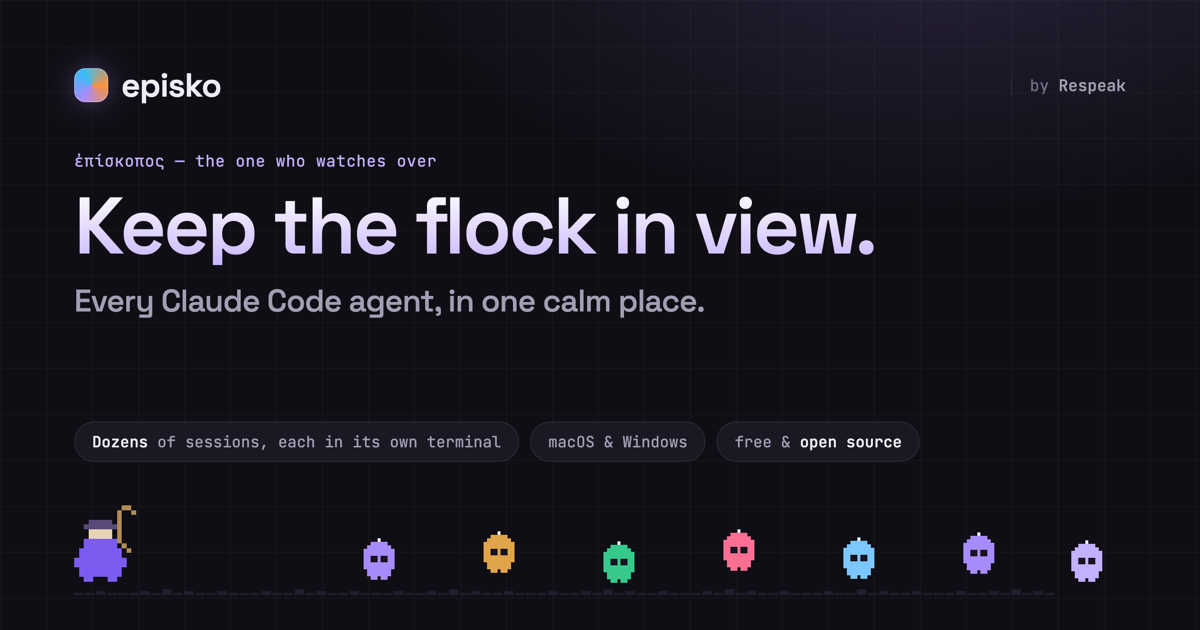
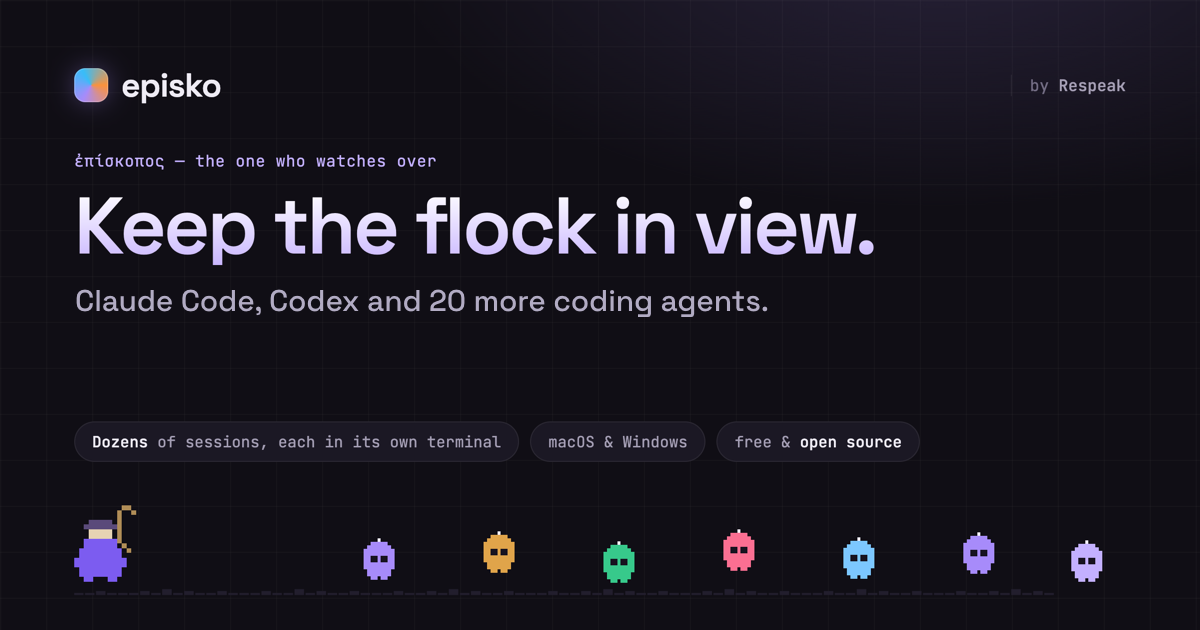
site: tags, social card and llms.txt cover every agent
The visible page already covered Codex and the other CLIs; the title, meta
tags, JSON-LD, social card and llms.txt still said Claude Code only.

Claude Code stays first in the title as the search term. The integrated
claims name Claude Code and Codex, and the other 20 CLIs are described as
plain terminals. The duplicate <title> is gone.

Changed region(s): [[0.0617, 0.4524, 0.6475, 0.5127]]

diff --git a/site/index.html b/site/index.html
@@ -3,10 +3,9 @@
 <head>
 <meta charset="utf-8" />
 <script>try{var t=localStorage.getItem('episko-theme');if(t==='light'||t==='dark')document.documentElement.setAttribute('data-theme',t)}catch(e){}</script>
-<title>episko — Claude Code session manager for macOS &amp; Windows</title>
+<title>episko: run Claude Code, Codex and 20 more coding agents at once</title>
 <meta name="viewport" content="width=device-width, initial-scale=1, viewport-fit=cover" />
-<title>episko — Claude Code session manager for macOS &amp; Windows</title>
-<meta name="description" content="Run dozens of Claude Code sessions at once — each in its own terminal, with live status, context, cost and permission prompts in one app. Free, open source." />
+<meta name="description" content="Run Claude Code, Codex and 20 more coding agents at once. Claude Code and Codex get live status and in-app permission prompts. Free and open source." />
 <link rel="canonical" href="https://episko.dev/" />
 <meta name="author" content="Respeak GmbH" />
 <meta name="theme-color" content="#e5e9e2" media="(prefers-color-scheme: light)" />
@@ -17,15 +16,15 @@
 <meta property="og:type" content="website" />
 <meta property="og:site_name" content="episko" />
 <meta property="og:url" content="https://episko.dev/" />
-<meta property="og:title" content="episko — Claude Code session manager for macOS &amp; Windows" />
-<meta property="og:description" content="Run dozens of Claude Code sessions at once. Every agent gets its own terminal, with live status, context, cost and permission prompts in one native app." />
+<meta property="og:title" content="episko: run Claude Code, Codex and 20 more coding agents at once" />
+<meta property="og:description" content="Run Claude Code, Codex and 20 more coding agents at once, each in its own terminal. Claude Code and Codex get live status, context use, cost and in-app permission prompts. The others run as plain terminals." />
 <meta property="og:image" content="https://episko.dev/og.png" />
 <meta property="og:image:width" content="1200" />
 <meta property="og:image:height" content="630" />
-<meta property="og:image:alt" content="episko — a pixel-art shepherd minding a flock of little Claude agents, above the episko session cockpit." />
+<meta property="og:image:alt" content="episko: a pixel-art shepherd minding a flock of little coding agents, under the line &quot;Keep the flock in view.&quot;" />
 <meta name="twitter:card" content="summary_large_image" />
-<meta name="twitter:title" content="episko — Claude Code session manager for macOS &amp; Windows" />
-<meta name="twitter:description" content="Run dozens of Claude Code sessions at once. Every agent gets its own terminal, with live status, context, cost and permission prompts in one native app." />
+<meta name="twitter:title" content="episko: run Claude Code, Codex and 20 more coding agents at once" />
+<meta name="twitter:description" content="Run Claude Code, Codex and 20 more coding agents at once, each in its own terminal. Claude Code and Codex get live status, context use, cost and in-app permission prompts. The others run as plain terminals." />
 <meta name="twitter:image" content="https://episko.dev/og.png" />
 
 <link rel="icon" href="/favicon.svg" type="image/svg+xml" />
@@ -41,7 +40,6 @@
       "@type": "SoftwareApplication",
       "@id": "https://episko.dev/#app",
       "name": "episko",
-      "alternateName": "episko for Claude Code",
       "applicationCategory": "DeveloperApplication",
       "applicationSubCategory": "AI coding agent session manager",
       "operatingSystem": "macOS, Windows 10, Windows 11",
@@ -50,18 +48,18 @@
       "softwareHelp": "https://github.com/respeak-io/episko",
       "license": "https://opensource.org/licenses/MIT",
       "isAccessibleForFree": true,
-      "description": "episko is a native desktop app that runs and supervises many Claude Code sessions at once. Each session gets its own PTY terminal — embedded, or in Ghostty, Terminal.app or iTerm2 — and streams live telemetry back: phase, model, context use, cost, the tool it is running, and permission requests you can answer without leaving the app. It also tracks 5-hour and weekly usage limits and forecasts when you will hit them.",
+      "description": "episko is a desktop app for running Claude Code, Codex and 20 other coding agent CLIs at once, each in its own PTY terminal. Claude Code and Codex stream live state back: phase, model, context use, cost, the tool running, and permission requests you can answer without leaving the app. The other CLIs run as plain terminals with no status reporting. On macOS, a Claude Code session can also run in Ghostty, Terminal.app or iTerm2. episko also tracks usage limits and forecasts when you will hit them.",
       "featureList": [
-        "Run many Claude Code sessions in parallel, each in its own terminal",
+        "Run Claude Code, Codex and 20 other coding agent CLIs in parallel, each in its own terminal",
         "Run the project's own tasks in the same panes — VS Code tasks, justfile, package.json scripts, Taskfile, mise, Makefile and Cargo",
-        "Live per-session status: model, context window use, cost and duration",
-        "Answer Claude Code permission prompts in-app (allow, deny, or open a terminal)",
+        "Live per-session status for Claude Code and Codex: phase, current tool, model, context window use and cost",
+        "Answer Claude Code and Codex permission prompts in-app, each with a risk label (allow, deny, or answer in the terminal)",
         "5-hour and weekly usage-limit tracking with pace forecasting",
         "Command palette (⌘K) to jump between sessions and launch projects",
         "Git worktree-aware session launching",
         "Usage analytics: daily spend heatmap, tokens by model, cost per project",
         "Discovers and surfaces Claude Code sessions started outside the app",
-        "Restores sessions after a restart via Claude Code's own transcripts"
+        "Resumes Claude Code and Codex sessions after a restart from the agents' own history"
       ],
       "offers": { "@type": "Offer", "price": "0", "priceCurrency": "EUR" },
       "author": { "@id": "https://respeak.io/#org" },
